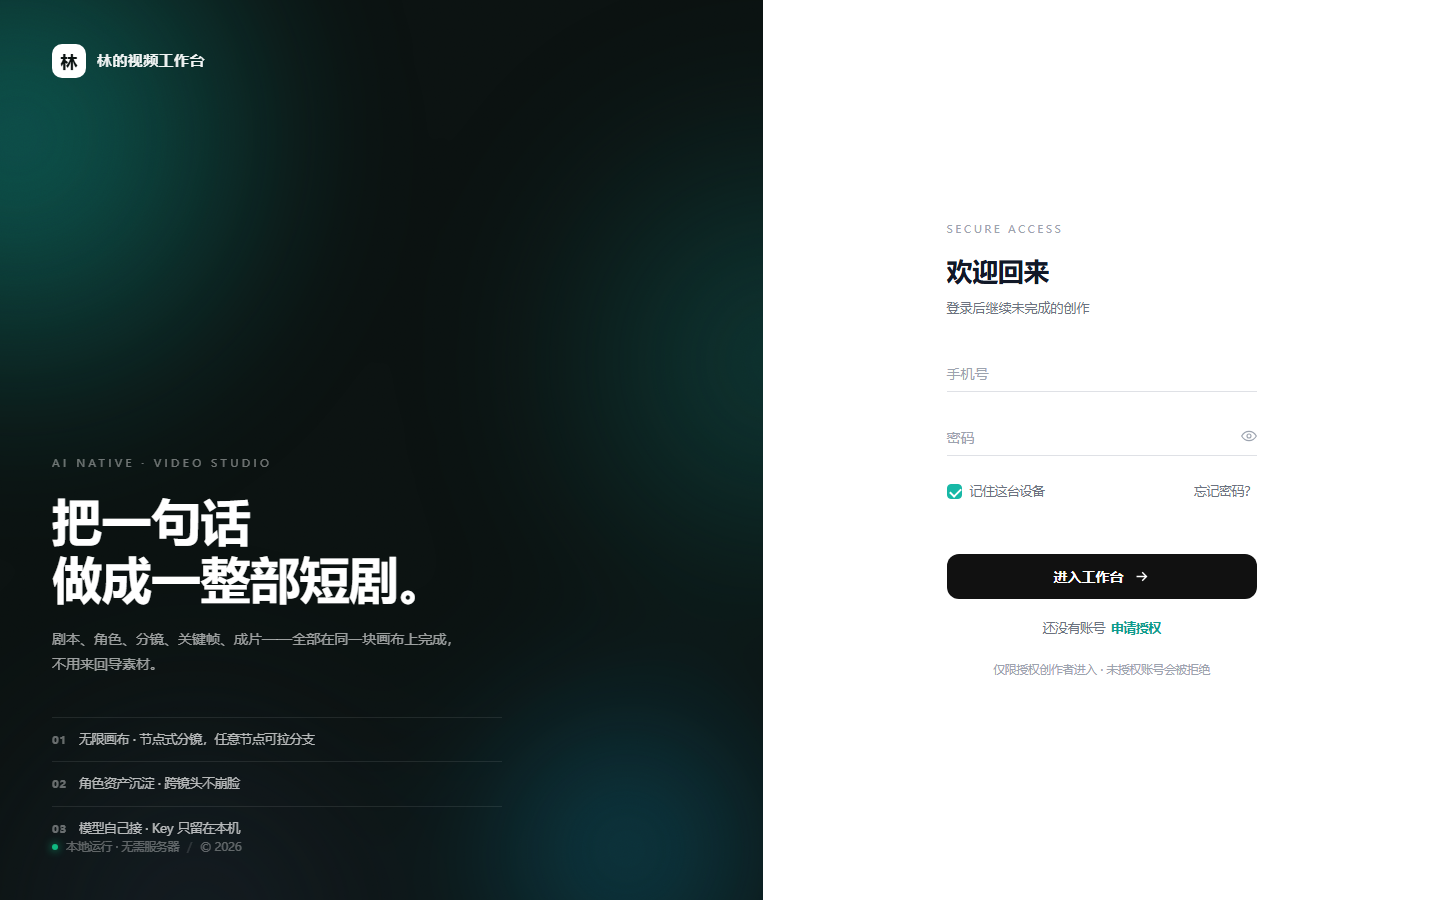
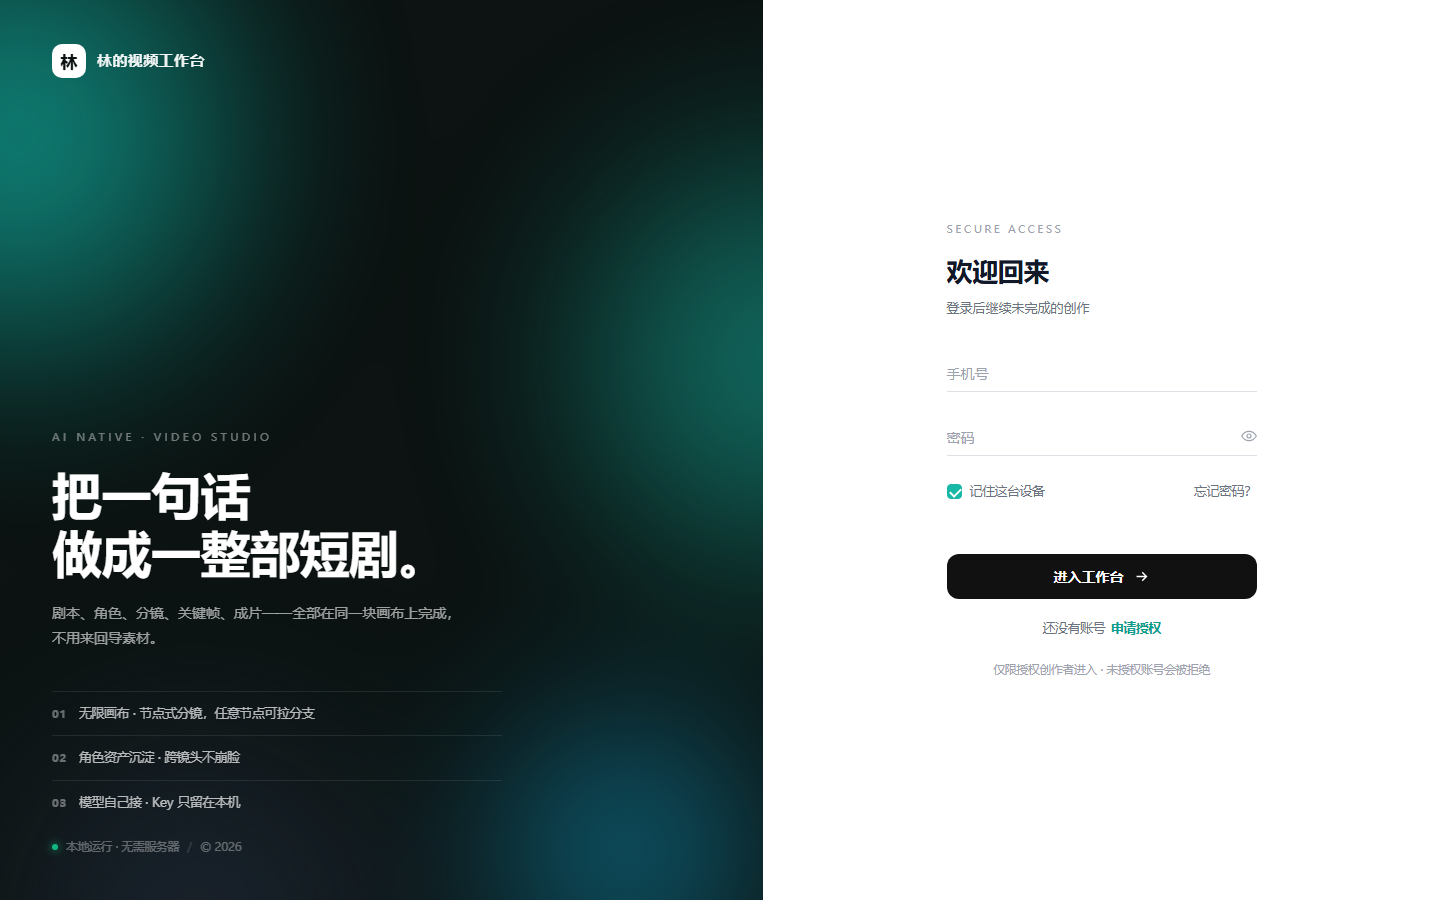
polish: 连线箭头 + 登录页光晕与间距调整

diff --git a/assets/css/style.css b/assets/css/style.css
@@ -40,11 +40,11 @@ a{cursor:pointer;text-decoration:none;color:inherit}
 .auth{position:fixed;inset:0;display:grid;grid-template-columns:1.06fr .94fr;z-index:999;background:#fff}
 .auth-visual{position:relative;overflow:hidden;padding:44px 52px;display:flex;flex-direction:column;
   background:#0B1211;color:#fff}
-.mesh{position:absolute;inset:-22%;filter:blur(72px);opacity:.55}
+.mesh{position:absolute;inset:-22%;filter:blur(72px);opacity:.92}
 .mesh i{position:absolute;display:block;border-radius:50%}
 .mesh i:nth-child(1){width:52%;height:56%;left:-6%;top:0;background:radial-gradient(circle,#0FA396 0%,transparent 70%);
   animation:drift1 28s ease-in-out infinite alternate}
-.mesh i:nth-child(2){width:44%;height:48%;right:-6%;top:22%;background:radial-gradient(circle,#115E59 0%,transparent 70%);
+.mesh i:nth-child(2){width:44%;height:48%;right:-6%;top:22%;background:radial-gradient(circle,#12877A 0%,transparent 70%);
   animation:drift2 34s ease-in-out infinite alternate}
 .mesh i:nth-child(3){width:46%;height:50%;left:12%;bottom:-8%;background:radial-gradient(circle,#1F2937 0%,transparent 72%);
   animation:drift3 31s ease-in-out infinite alternate}
@@ -63,7 +63,8 @@ a{cursor:pointer;text-decoration:none;color:inherit}
 .eyebrow{font-size:11px;letter-spacing:.3em;color:rgba(255,255,255,.42);margin-bottom:20px;font-weight:500}
 .visual-h1{font-size:clamp(34px,3.5vw,50px);font-weight:700;line-height:1.16;letter-spacing:-.5px;color:#fff}
 .visual-lead{margin-top:20px;max-width:420px;font-size:14px;line-height:1.78;color:rgba(255,255,255,.6)}
-.visual-points{position:relative;list-style:none;display:flex;flex-direction:column;gap:12px;max-width:450px}
+.visual-points{position:relative;list-style:none;display:flex;flex-direction:column;gap:12px;max-width:450px;
+  margin-bottom:26px}
 .visual-points li{display:flex;align-items:baseline;gap:12px;font-size:12.5px;color:rgba(255,255,255,.7);
   padding-top:12px;border-top:1px solid rgba(255,255,255,.09)}
 .visual-points em{font-style:normal;font-size:10.5px;letter-spacing:.1em;color:rgba(255,255,255,.38);font-weight:600}

diff --git a/assets/js/views/canvas.js b/assets/js/views/canvas.js
@@ -84,16 +84,32 @@ export function renderEditor(root, params) {
     const w = el.offsetWidth || 300, hh = el.offsetHeight || 160;
     return side === 'out' ? { x: node.x + w, y: node.y + hh / 2 } : { x: node.x, y: node.y + hh / 2 };
   }
+  const SVGNS = 'http://www.w3.org/2000/svg';
   function drawEdges() {
     edgeLayer.innerHTML = '';
+    /* 连线箭头（Pavo 风格） */
+    const defs = document.createElementNS(SVGNS, 'defs');
+    const mk = document.createElementNS(SVGNS, 'marker');
+    mk.setAttribute('id', 'earrow');
+    mk.setAttribute('viewBox', '0 0 10 10');
+    mk.setAttribute('refX', '9'); mk.setAttribute('refY', '5');
+    mk.setAttribute('markerWidth', '6'); mk.setAttribute('markerHeight', '6');
+    mk.setAttribute('orient', 'auto-start-reverse');
+    const tip = document.createElementNS(SVGNS, 'path');
+    tip.setAttribute('d', 'M0,0 L10,5 L0,10 z');
+    tip.setAttribute('fill', '#B6BAC4');
+    mk.append(tip); defs.append(mk); edgeLayer.append(defs);
+
     for (const e of proj.edges) {
       const a = proj.nodes.find(n => n.id === e.from), b = proj.nodes.find(n => n.id === e.to);
       if (!a || !b) continue;
       const p1 = portPos(a, 'out'), p2 = portPos(b, 'in'); if (!p1 || !p2) continue;
       const dx = Math.max(40, Math.abs(p2.x - p1.x) * 0.45);
-      const d = `M${p1.x},${p1.y} C${p1.x + dx},${p1.y} ${p2.x - dx},${p2.y} ${p2.x},${p2.y}`;
-      const path = document.createElementNS('http://www.w3.org/2000/svg', 'path');
-      path.setAttribute('class', 'edge'); path.setAttribute('d', d);
+      const d = `M${p1.x},${p1.y} C${p1.x + dx},${p1.y} ${p2.x - dx},${p2.y} ${p2.x - 2},${p2.y}`;
+      const path = document.createElementNS(SVGNS, 'path');
+      path.setAttribute('class', 'edge');
+      path.setAttribute('d', d);
+      path.setAttribute('marker-end', 'url(#earrow)');
       edgeLayer.append(path);
     }
   }
